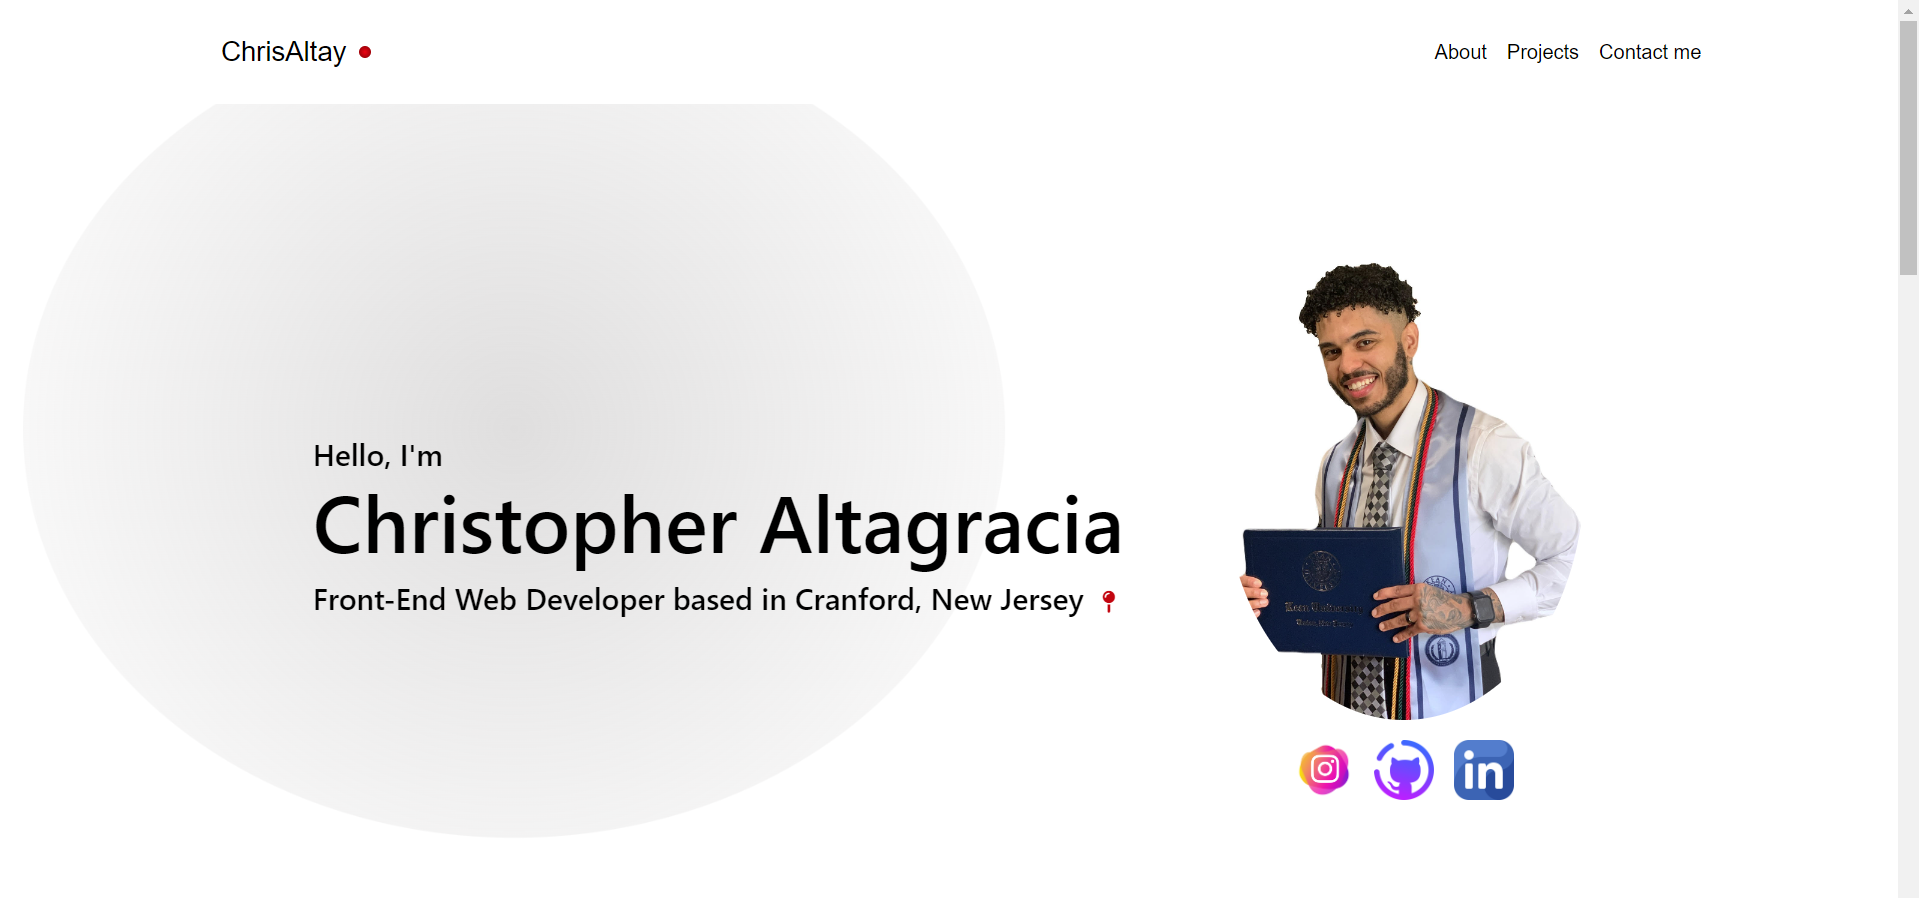
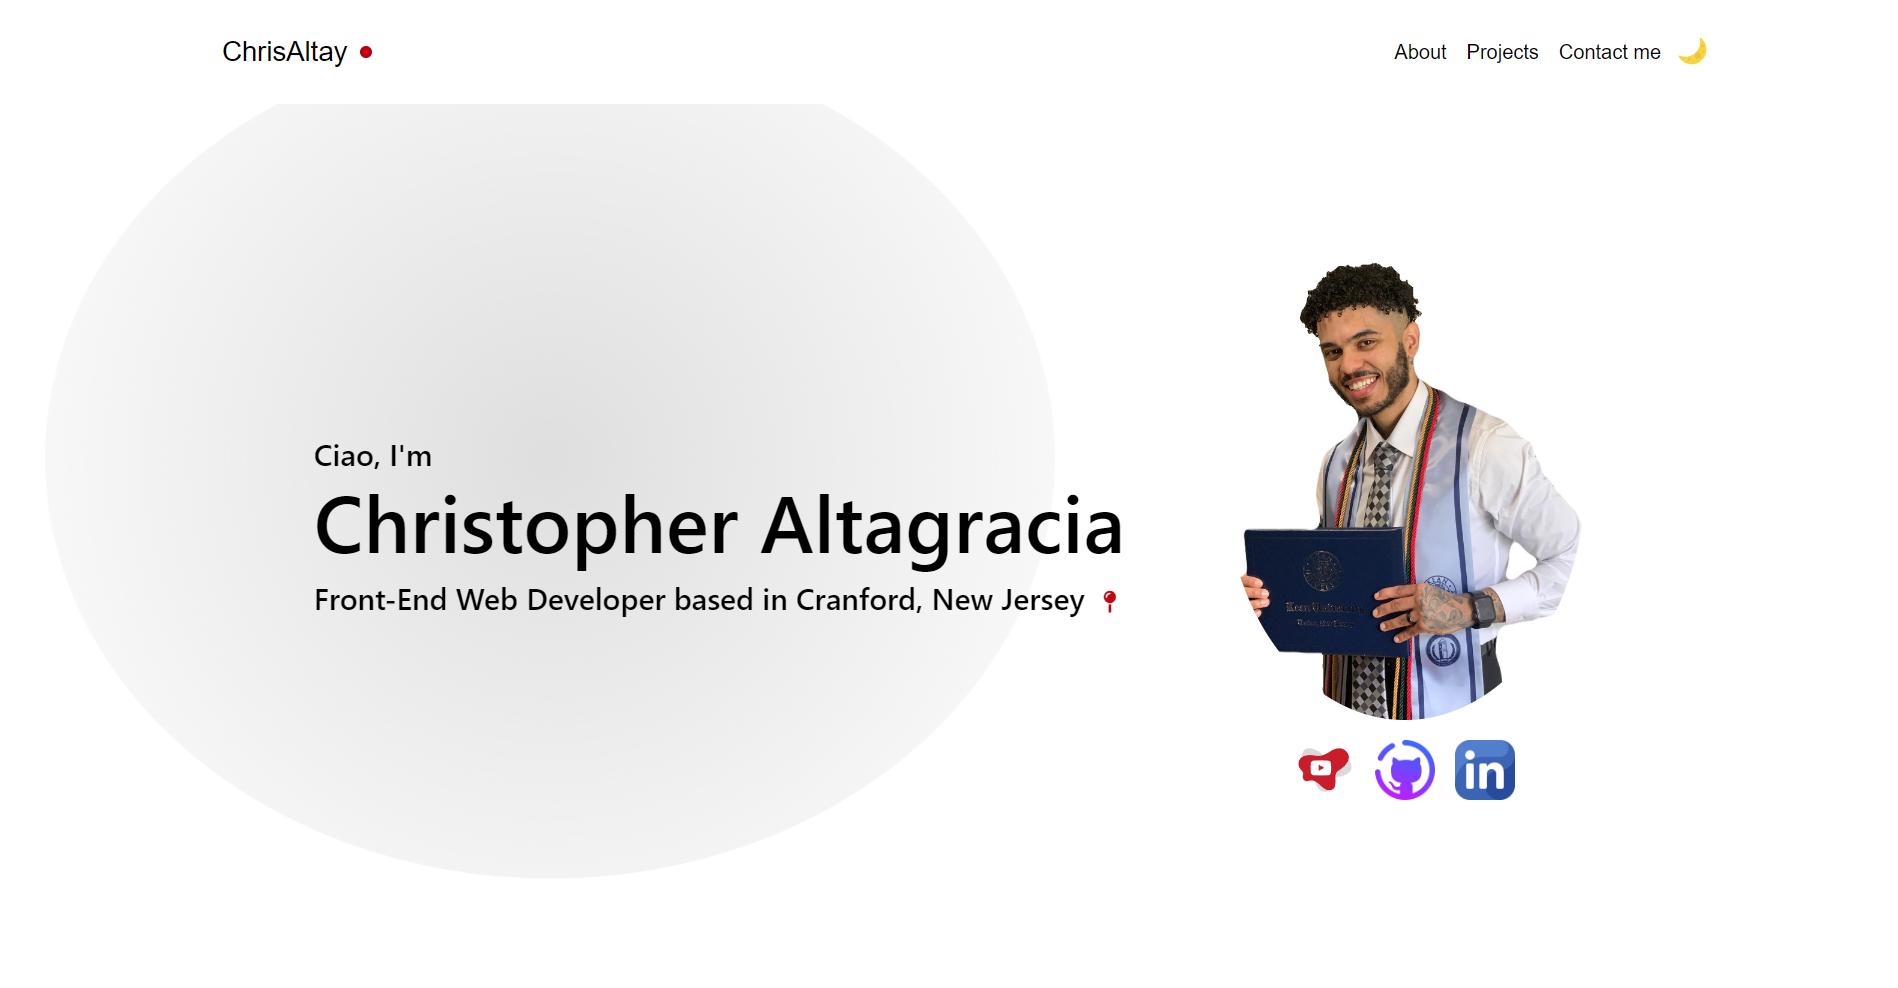
Add files via upload

diff --git a/src/components/Home.jsx b/src/components/Home.jsx
@@ -1,7 +1,7 @@
 import React, { useEffect } from 'react';
 import '../css/Home.css'; 
 import chrisPicture from '../assets/chris1.JPG'; 
-import instagramIcon from '../assets/instagram.png'; 
+import youtubeIcon from '../assets/youtube2.png'; 
 import githubIcon from '../assets/github.png'; 
 import linkedinIcon from '../assets/linkedin.png'; 
 
@@ -86,8 +86,8 @@ export const Home = () => {
         <img src={chrisPicture} className="mainimage" alt="Christopher Altagracia" title="This is me"/>
         
         <div className="social-icons">
-          <a href="https://www.instagram.com/chrisaltay/" target="_blank" rel="noopener noreferrer">
-            <img src={instagramIcon} alt="Instagram" className="social-icon" title="Check me out on Instagram!" />
+          <a href="https://www.youtube.com/channel/UCUM4Qe7JRKtYXdkAK7VIDqw" target="_blank" rel="noopener noreferrer">
+            <img src={youtubeIcon} alt="Youtube" className="social-icon" title="Check me out on Youtube!" />
           </a>
           <a href="https://github.com/ChrisAltay" target="_blank" rel="noopener noreferrer" title="Explore my repositories on Github!">
             <img src={githubIcon} alt="GitHub" className="social-icon" />
